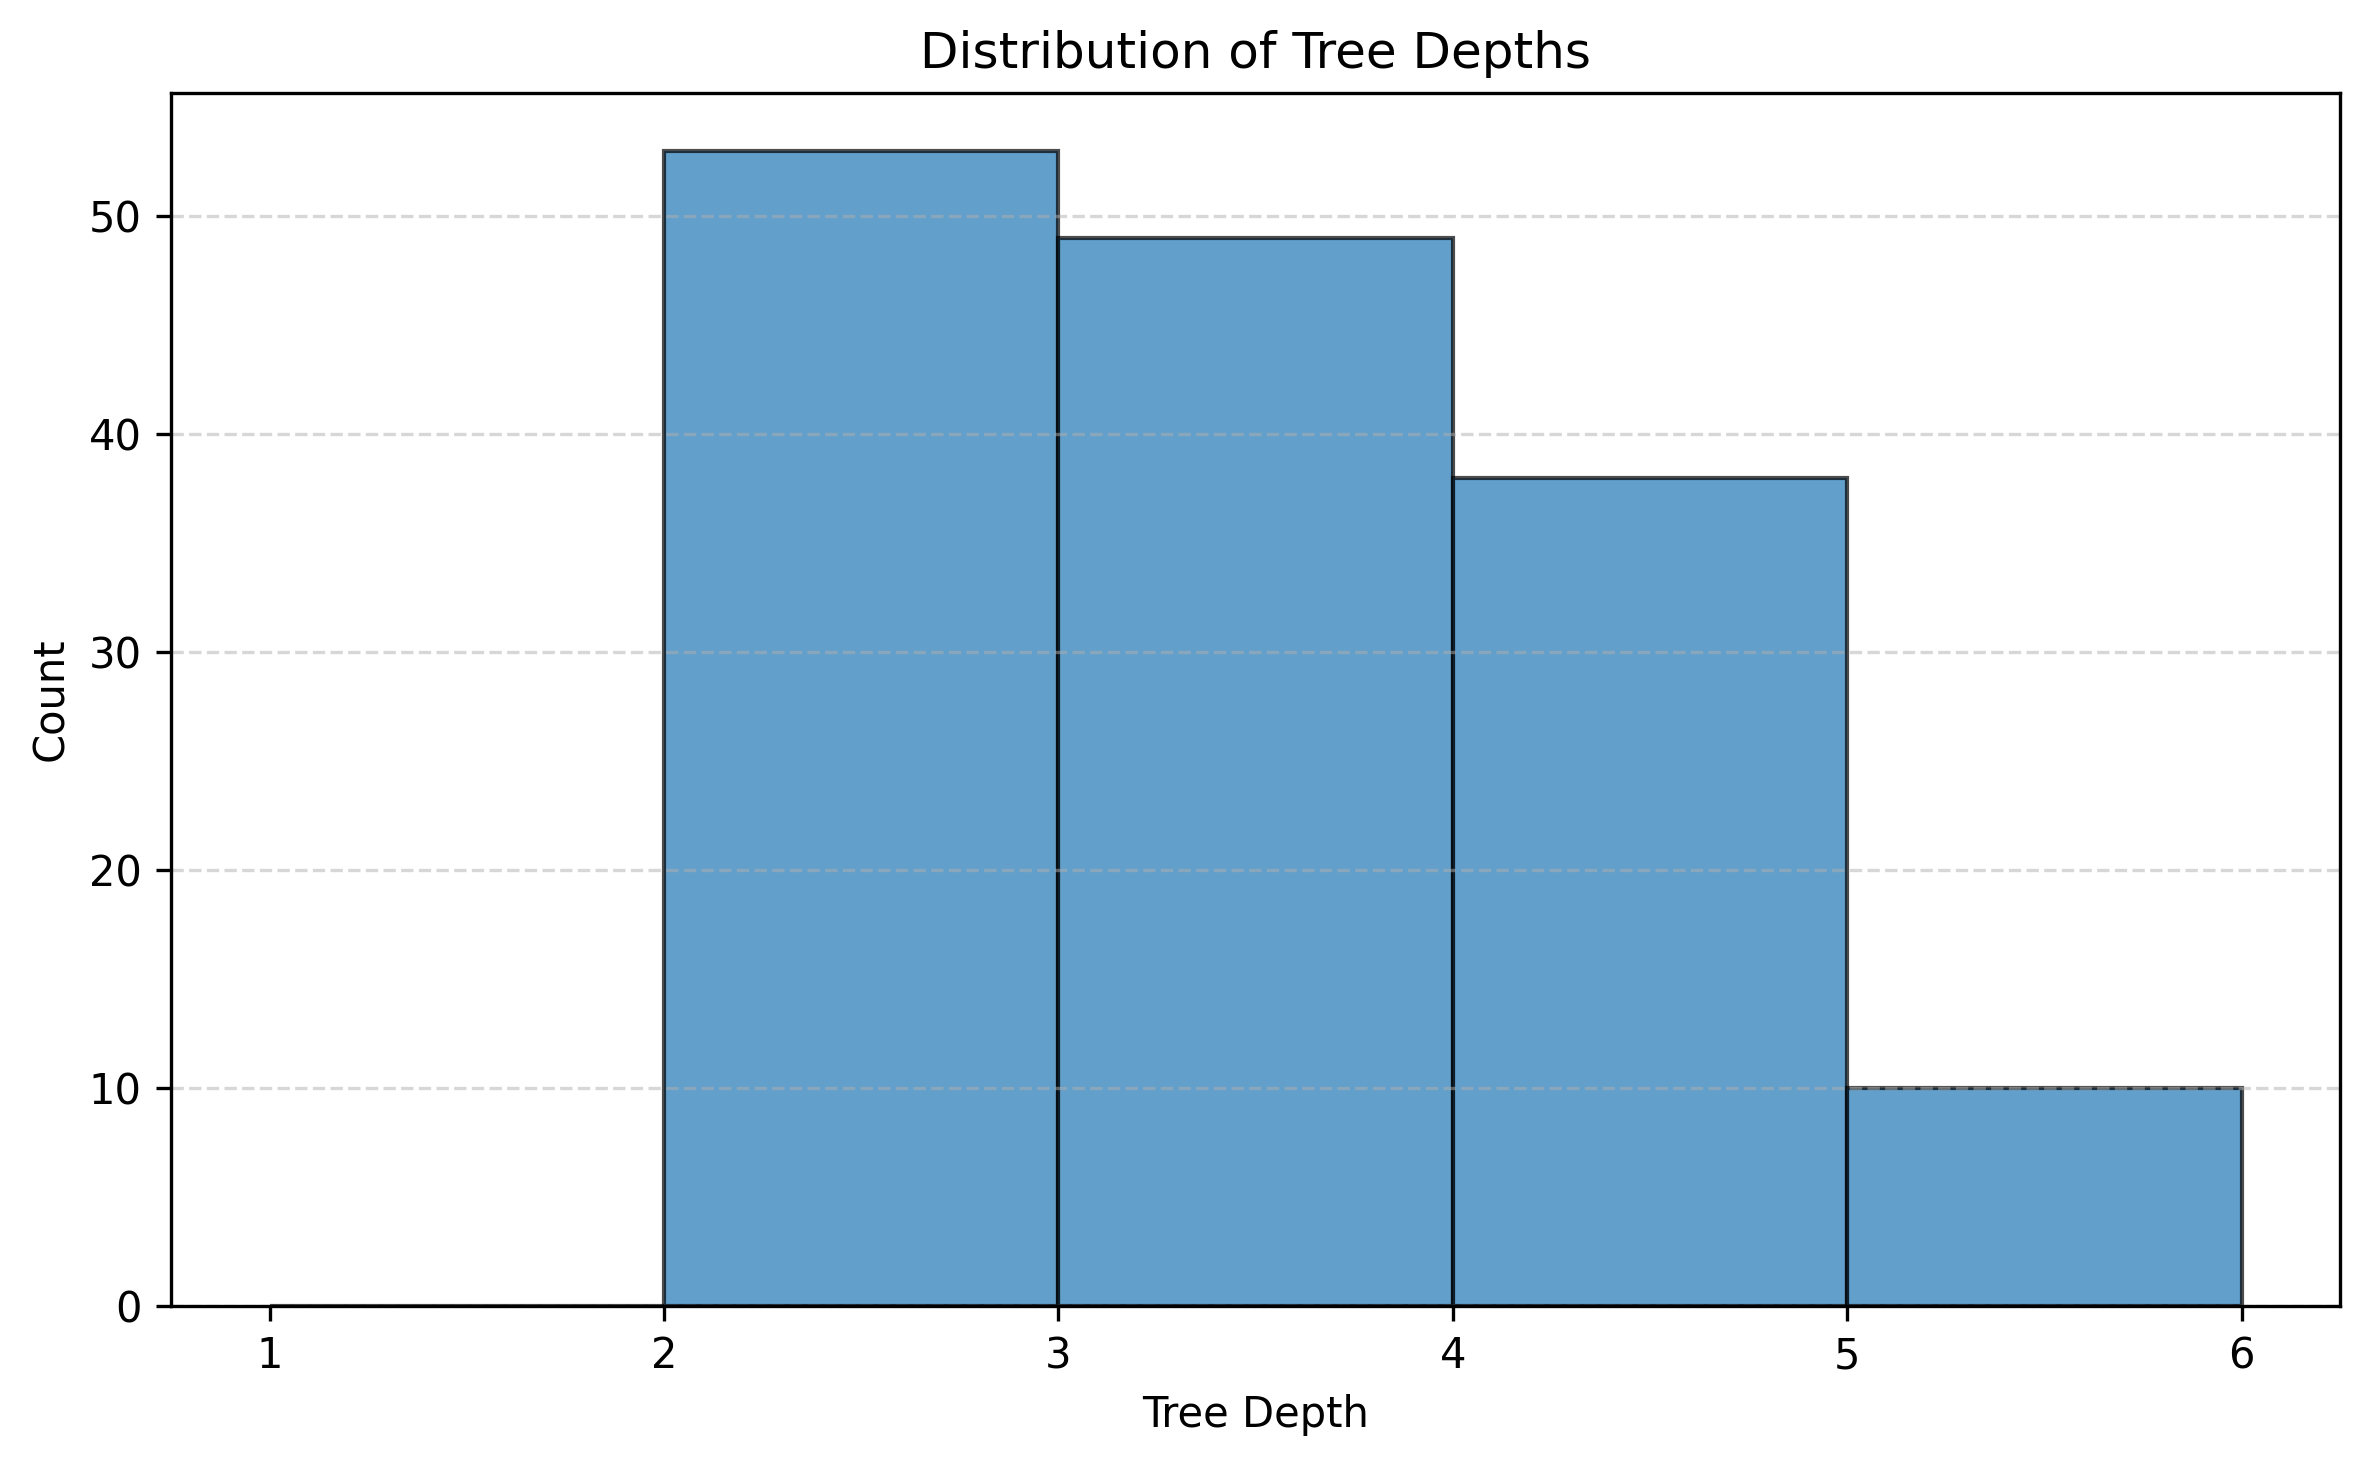
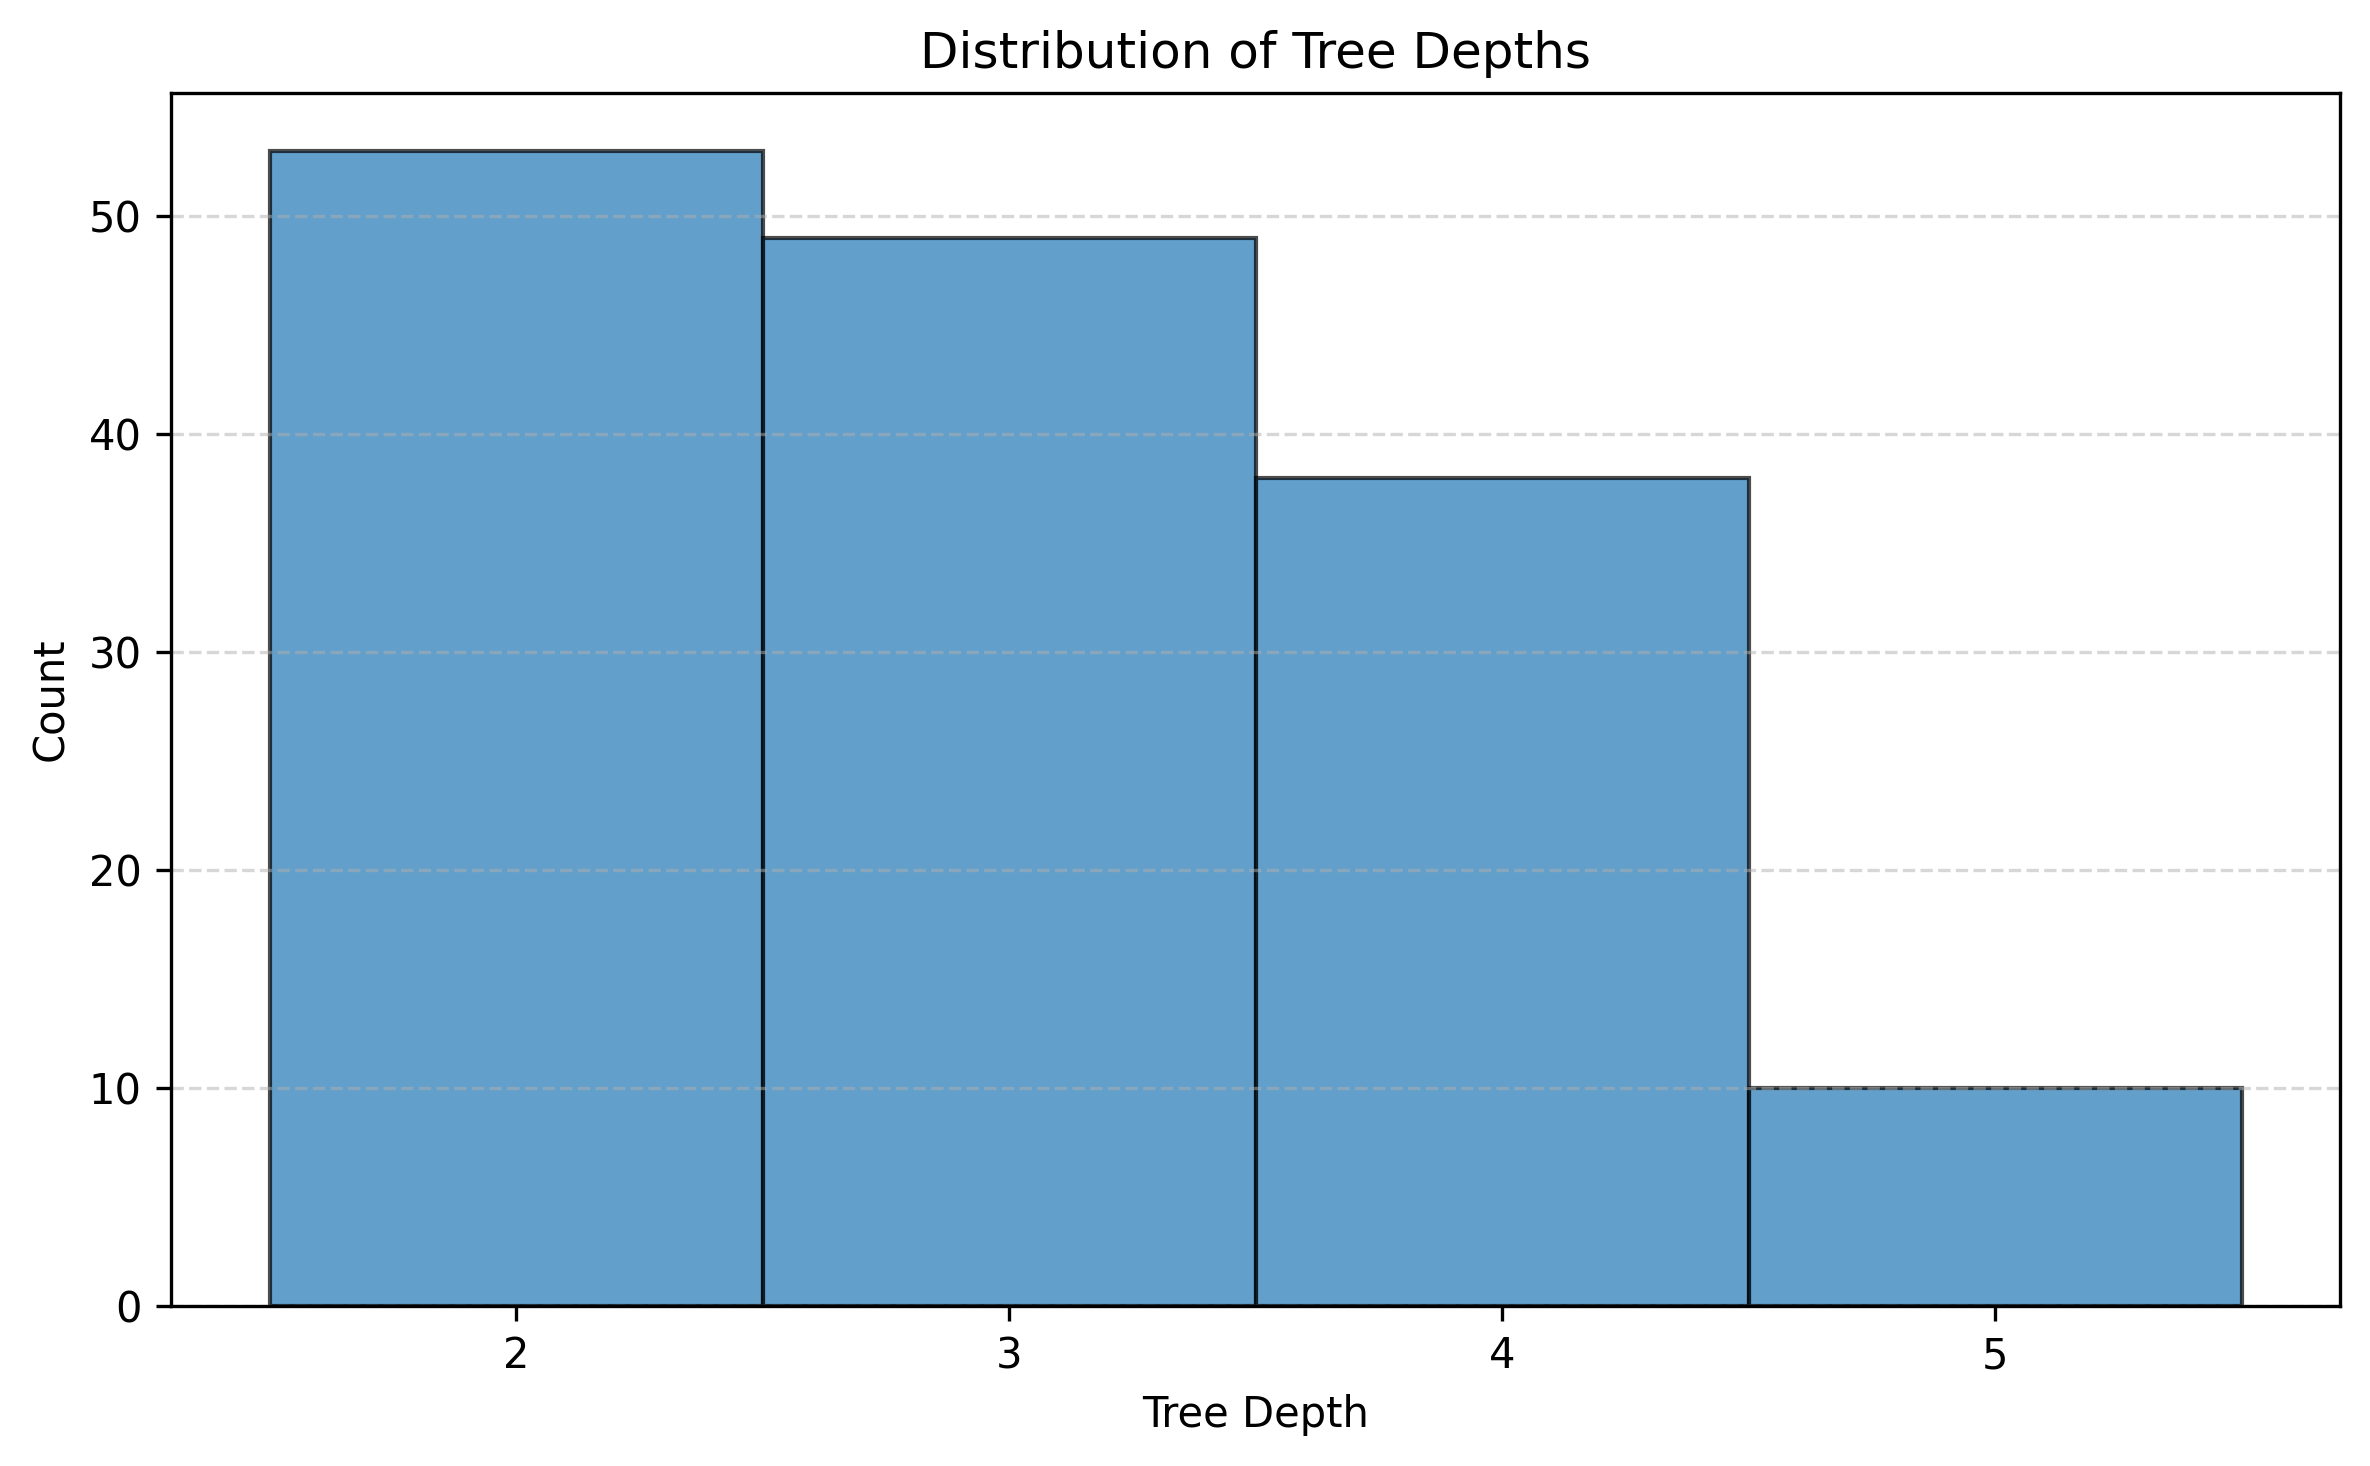
tree depth histogram bins

diff --git a/xgboost_interp/core/tree_analyzer.py b/xgboost_interp/core/tree_analyzer.py
@@ -222,11 +222,16 @@ class TreeAnalyzer:
             return
         
         fig, ax = plt.subplots(figsize=(8, 5))
-        ax.hist(depths, bins=range(1, max(depths) + 2), edgecolor='black', alpha=0.7)
+        # Center bins on integer values by shifting bin edges by 0.5
+        min_depth, max_depth = min(depths), max(depths)
+        bin_edges = [i - 0.5 for i in range(min_depth, max_depth + 2)]
+        ax.hist(depths, bins=bin_edges, edgecolor='black', alpha=0.7)
         ax.set_xlabel("Tree Depth")
         ax.set_ylabel("Count")
         ax.set_title("Distribution of Tree Depths")
         ax.grid(axis='y', linestyle='--', alpha=0.5)
+        # Set x-ticks to actual depth values
+        ax.set_xticks(range(min_depth, max_depth + 1))
         
         plt.tight_layout()
         self.plotter._save_plot('tree_depth_histogram.png')
